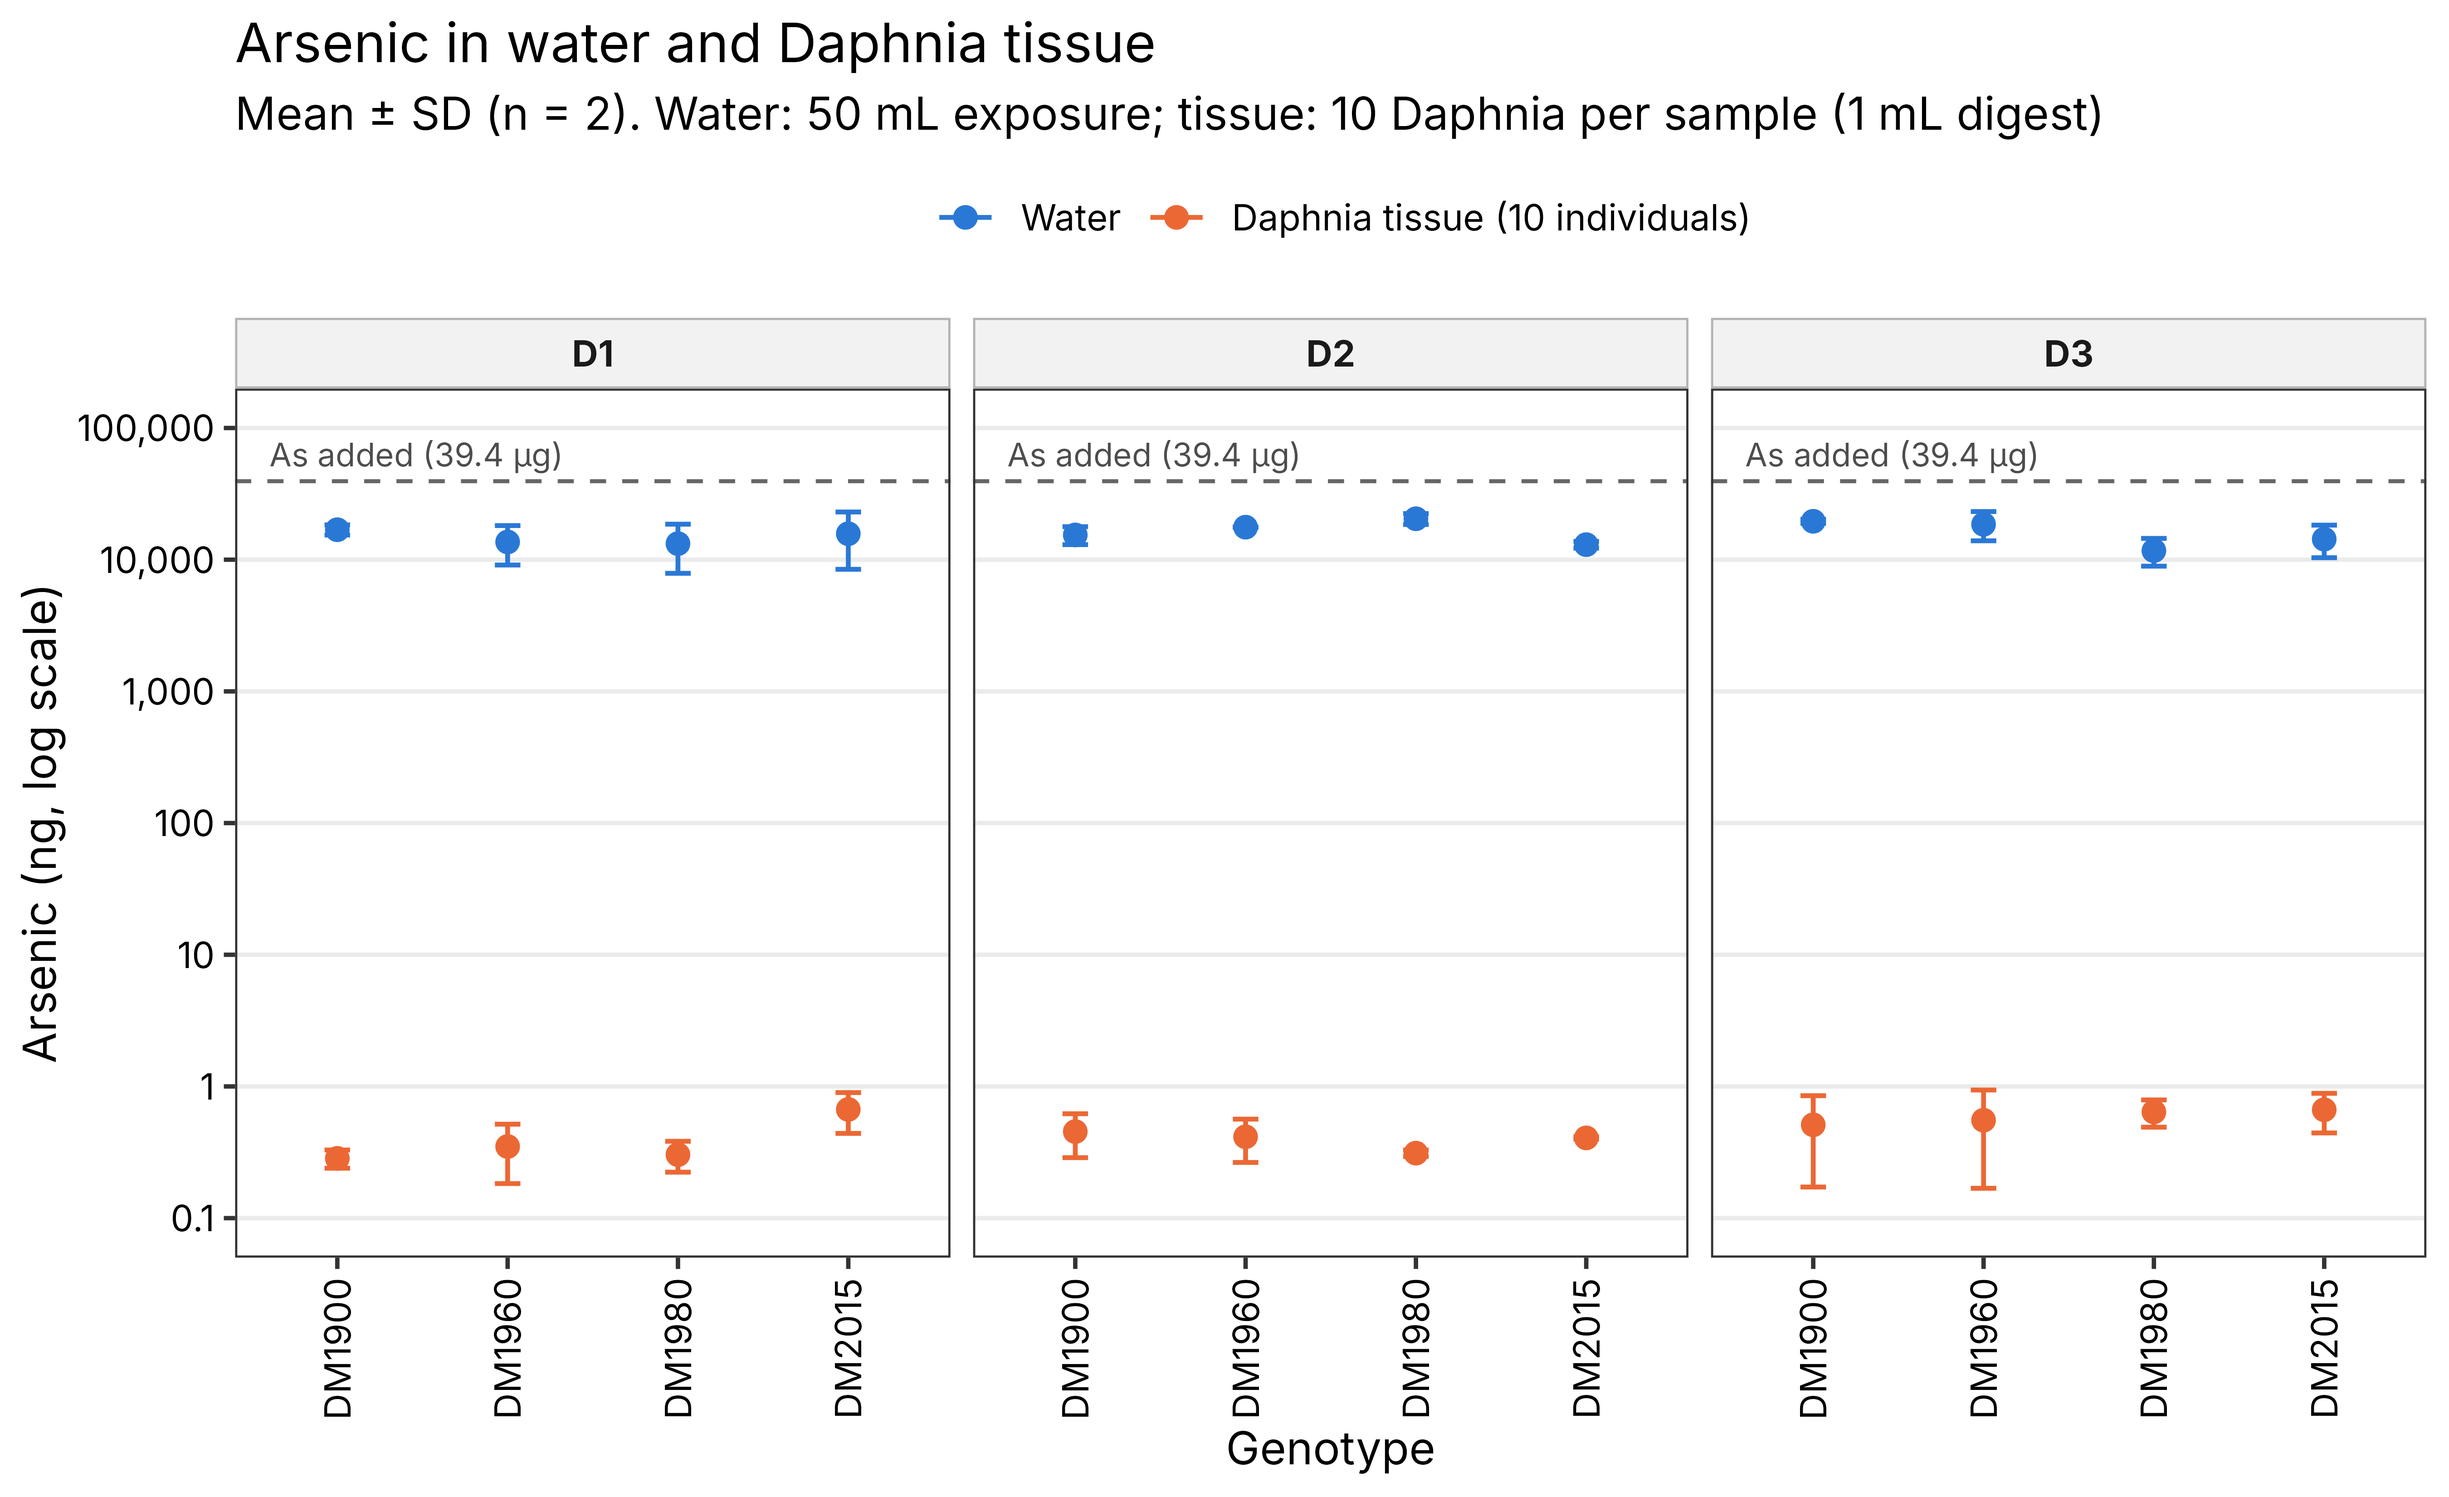
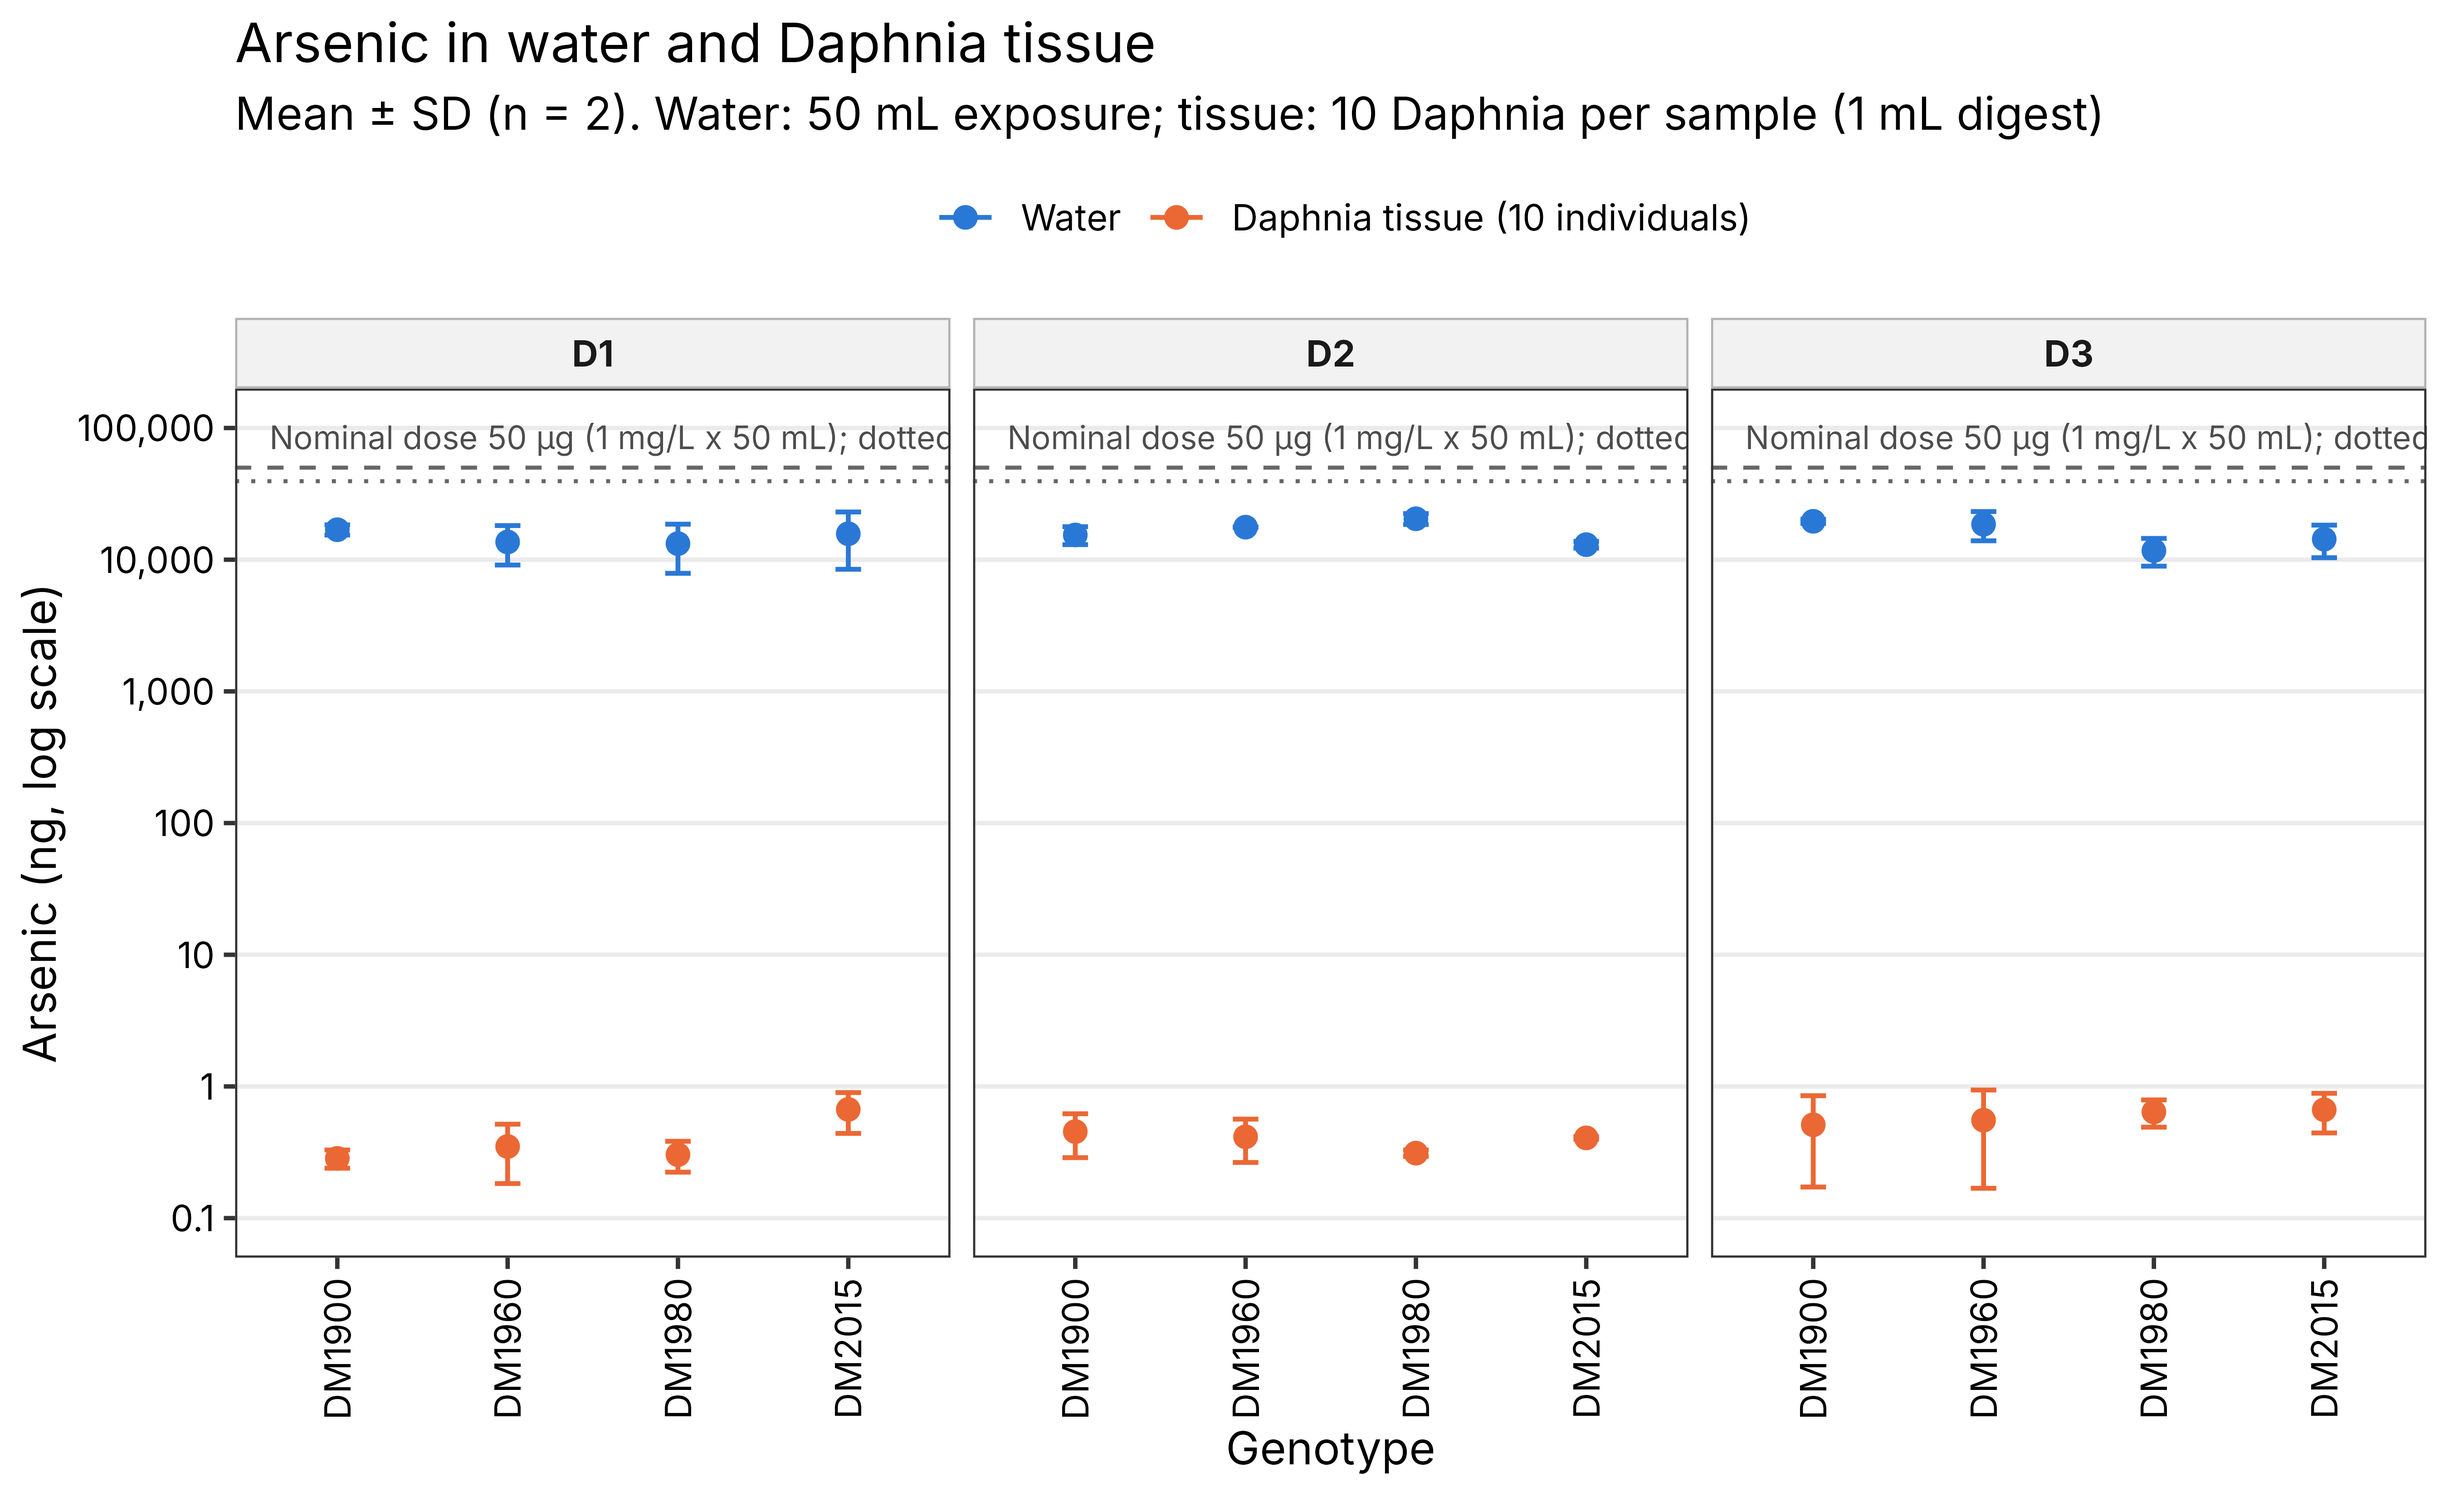
Show nominal arsenic dose (50 ug) alongside measured control
Claude-Session: https://claude.ai/code/session_01Q4ez1oHjNgnYUvR6AcaCKb

Changed region(s): [[0.0933, 0.2809, 0.3733, 0.3433], [0.7156, 0.2809, 0.9956, 0.3121], [0.4044, 0.2809, 0.6844, 0.3121]]

diff --git a/mass_balance/README.md b/mass_balance/README.md
@@ -82,8 +82,9 @@ Rscript mass_balance/mass_balance_plots.R
     (0.906, 0.896, 0.863 for Days 1-3), and its SD column is copied from
     PFOS+PFOA. It is not used in the plots.
 
-12. **Arsenic mass balance does not close.** With a 50 mL exposure, about
-    39.4 ug As is added per beaker. On average 40 % (24-55 %) remains in the
+12. **Arsenic mass balance does not close.** Nominal dose 1 mg/L (1000 ug in a
+    1 L stock, dispensed as 50 mL per beaker = 50 ug); the no-Daphnia controls
+    measured 788.7 ug/L, i.e. 39.4 ug per beaker, which is the base used here. On average 40 % (24-55 %) remains in the
     water and ~0.001 % is in the 10-Daphnia tissue sample, so ~60 % is
     unaccounted for (e.g. adsorption to vessel walls, Daphnia not sampled,
     moults/faeces, or volatilisation/speciation losses). Values in
